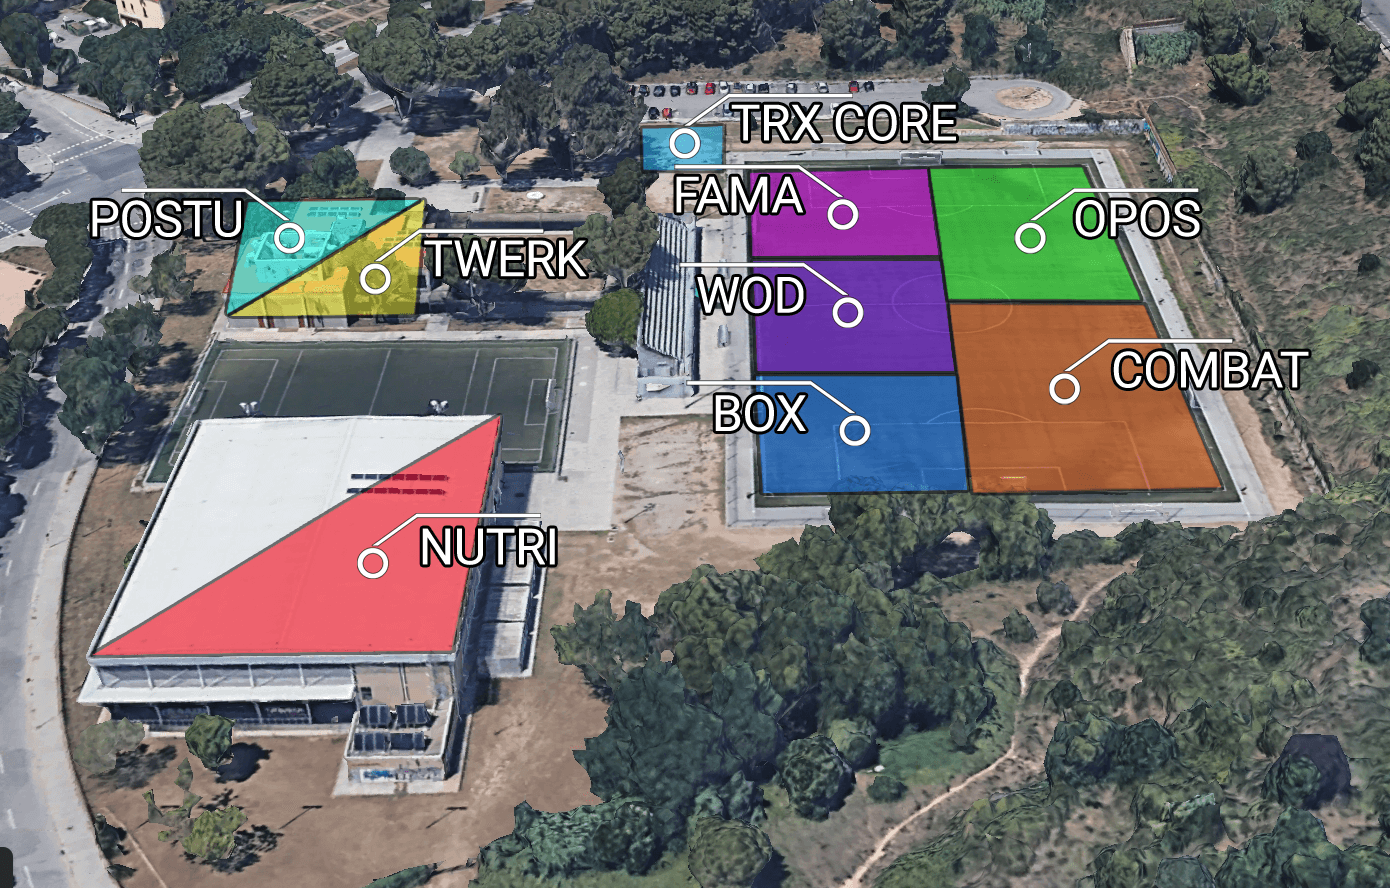
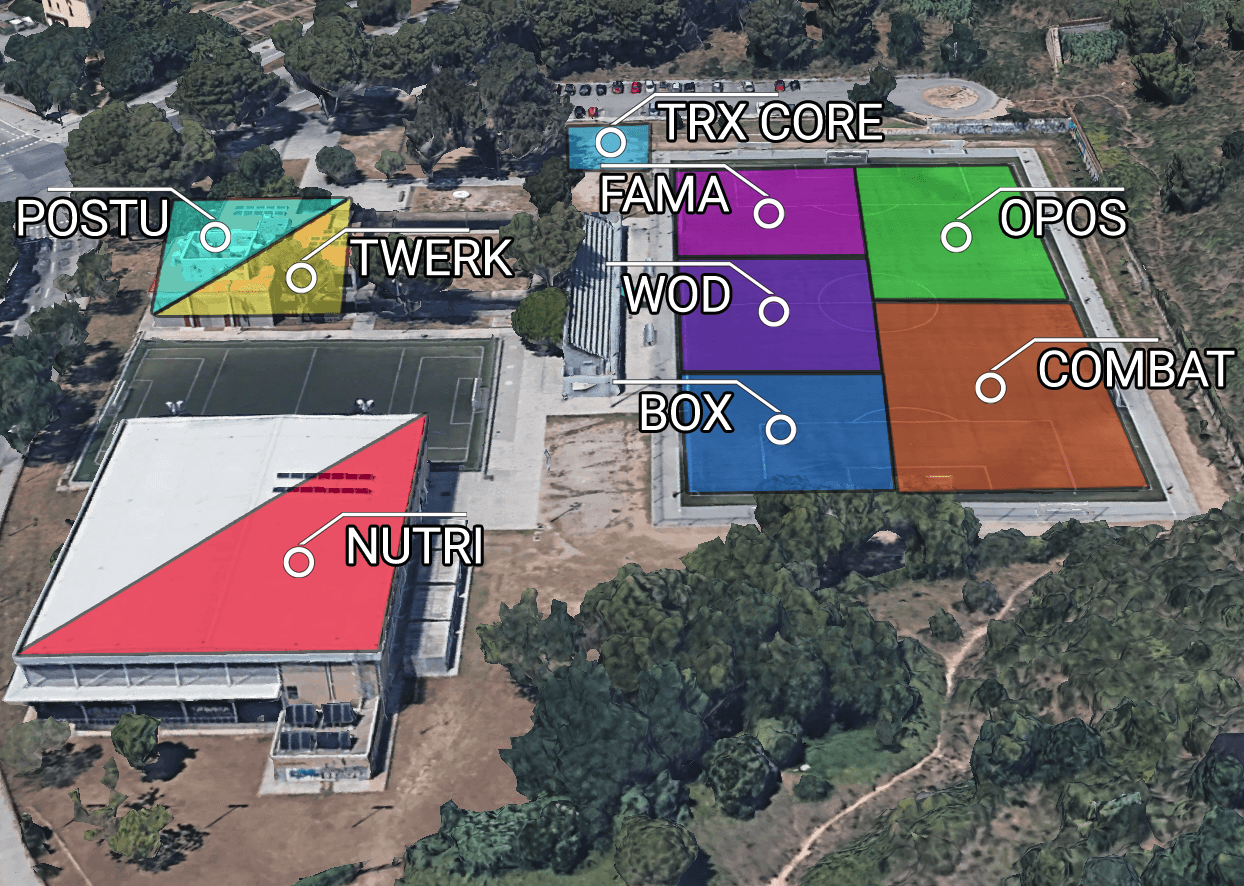
ADD email rule

diff --git a/resources/views/index.blade.php b/resources/views/index.blade.php
@@ -48,6 +48,7 @@
                         <div class="divcheckbox">
                             <label class="divcheckboxNoSelect" for="{{ $activitat_fira->id }}">
                                 <p class="card-text">{{ $activitat_fira->activitat->nom }}</p>
+                                <p class="card-text">{{ count($activitat_fira->reserva) }} / {{ $activitat_fira->places }}</p>
                                 <input type="checkbox" name="activitats" id="{{ $activitat_fira->id }}"
                                     data-activitat_fira_id="{{ $activitat_fira->id }}"
                                     data-activitat_fira_id_activitat="{{ $activitat_fira->id_activitat }}"
@@ -67,6 +68,7 @@
                         <div class="divcheckbox">
                             <label class="divcheckboxNoSelect" for="{{ $activitat_fira->id }}">
                                 <p class="card-text">{{ $activitat_fira->activitat->nom }}</p>
+                                <p class="card-text">{{ count($activitat_fira->reserva) }} / {{ $activitat_fira->places }}</p>
                                 <input type="checkbox" name="activitats" id="{{ $activitat_fira->id }}"
                                     data-activitat_fira_id="{{ $activitat_fira->id }}"
                                     data-activitat_fira_id_activitat="{{ $activitat_fira->id_activitat }}"
@@ -86,6 +88,7 @@
                         <div class="divcheckbox">
                             <label class="divcheckboxNoSelect" for="{{ $activitat_fira->id }}">
                                 <p class="card-text">{{ $activitat_fira->activitat->nom }}</p>
+                                <p class="card-text">{{ count($activitat_fira->reserva) }} / {{ $activitat_fira->places }}</p>
                                 <input type="checkbox" name="activitats" id="{{ $activitat_fira->id }}"
                                     data-activitat_fira_id="{{ $activitat_fira->id }}"
                                     data-activitat_fira_id_activitat="{{ $activitat_fira->id_activitat }}"
@@ -105,6 +108,7 @@
                         <div class="divcheckbox">
                             <label class="divcheckboxNoSelect" for="{{ $activitat_fira->id }}">
                                 <p class="card-text">{{ $activitat_fira->activitat->nom }}</p>
+                                <p class="card-text">{{ count($activitat_fira->reserva) }} / {{ $activitat_fira->places }}</p>
                                 <input type="checkbox" name="activitats" id="{{ $activitat_fira->id }}"
                                     data-activitat_fira_id="{{ $activitat_fira->id }}"
                                     data-activitat_fira_id_activitat="{{ $activitat_fira->id_activitat }}"
@@ -133,8 +137,12 @@
     <div class="row mt-4">
         <div class="col-md-12 mb-4">
             <div class="card">
+                <div class="m-4">
+                    <h5>Ens veiem en Complex Esportiu La Bàscula</h5>
+                    <p>Carrer del Foc, 132, 08004 Barcelona</p>
+                </div>
                 <div class="bg-image hover-overlay ripple" data-mdb-ripple-color="light">
-                    <img src="{{ asset('img/mapa.png') }}" class="img-fluid" style="height: 600px; object-fit: scale-down;" />
+                    <img src="{{ asset('img/mapa.png') }}" class="img-fluid" style="height: 600px;" />
                     <a href="#!">
                         <div class="mask" style="background-color: rgba(251, 251, 251, 0.15)">
                         </div>

diff --git a/app/Rules/EmailRule.php b/app/Rules/EmailRule.php
@@ -1,0 +1,44 @@
+<?php
+
+namespace App\Rules;
+
+use Illuminate\Contracts\Validation\Rule;
+use Illuminate\Support\Str;
+
+class EmailRule implements Rule
+{
+    /**
+     * Create a new rule instance.
+     *
+     * @return void
+     */
+    public function __construct()
+    {
+        //
+    }
+
+    /**
+     * Determine if the validation rule passes.
+     *
+     * @param  string  $attribute
+     * @param  mixed  $value
+     * @return bool
+     */
+    public function passes($attribute, $value)
+    {
+        if(Str::contains($value, '@ieb.cat') || Str::contains($value, '@institutaliments.barcelona') || Str::contains($value, '1cf.')){
+            return true;
+        }
+        return false;
+    }
+
+    /**
+     * Get the validation error message.
+     *
+     * @return string
+     */
+    public function message()
+    {
+        return 'INS email no reconegut';
+    }
+}

diff --git a/app/Http/Controllers/Auth/RegisterController.php b/app/Http/Controllers/Auth/RegisterController.php
@@ -3,6 +3,7 @@
 namespace App\Http\Controllers\Auth;
 
 use App\User;
+use App\Rules\EmailRule;
 use App\Http\Controllers\Controller;
 use Illuminate\Support\Facades\Hash;
 use Illuminate\Support\Facades\Validator;
@@ -50,7 +51,7 @@ class RegisterController extends Controller
     {
         return Validator::make($data, [
             'name' => ['required', 'string', 'max:255'],
-            'email' => ['required', 'string', 'email', 'max:255', 'unique:users'],
+            'email' => ['required', 'string', 'email', 'max:255', 'unique:users', new EmailRule()],
             'password' => ['required', 'string', 'min:8', 'confirmed'],
         ]);
     }
